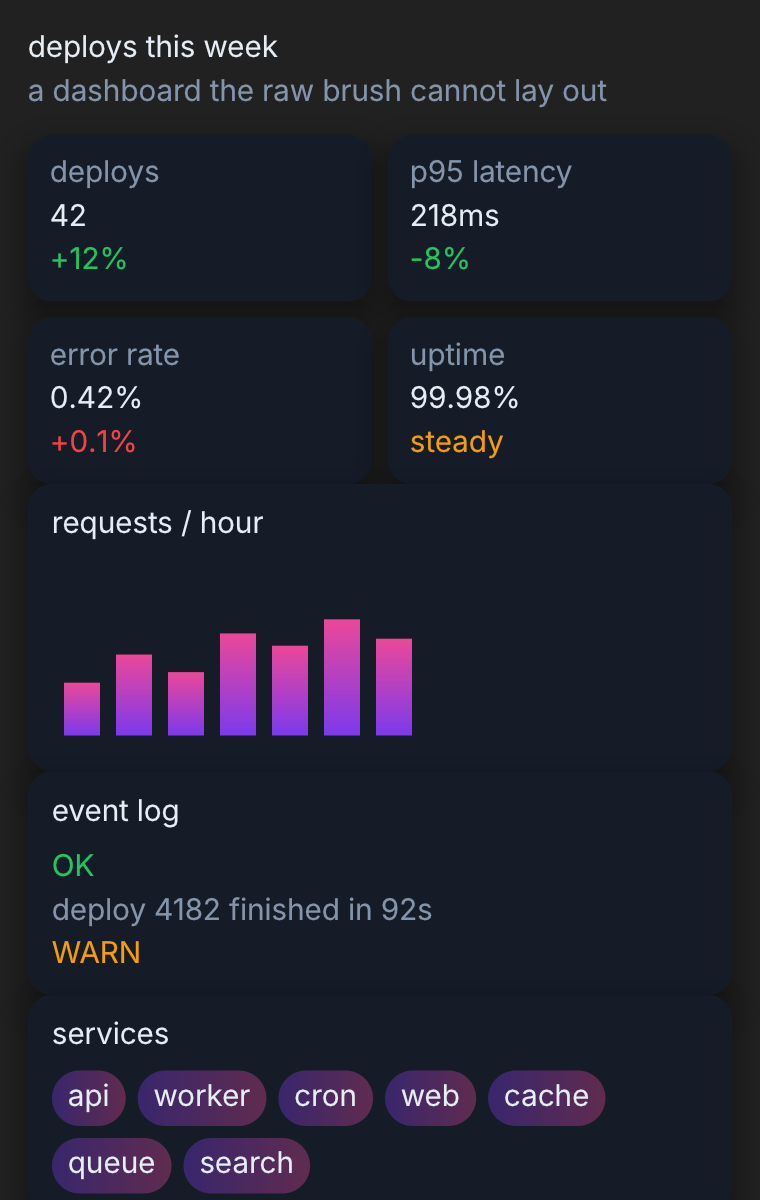
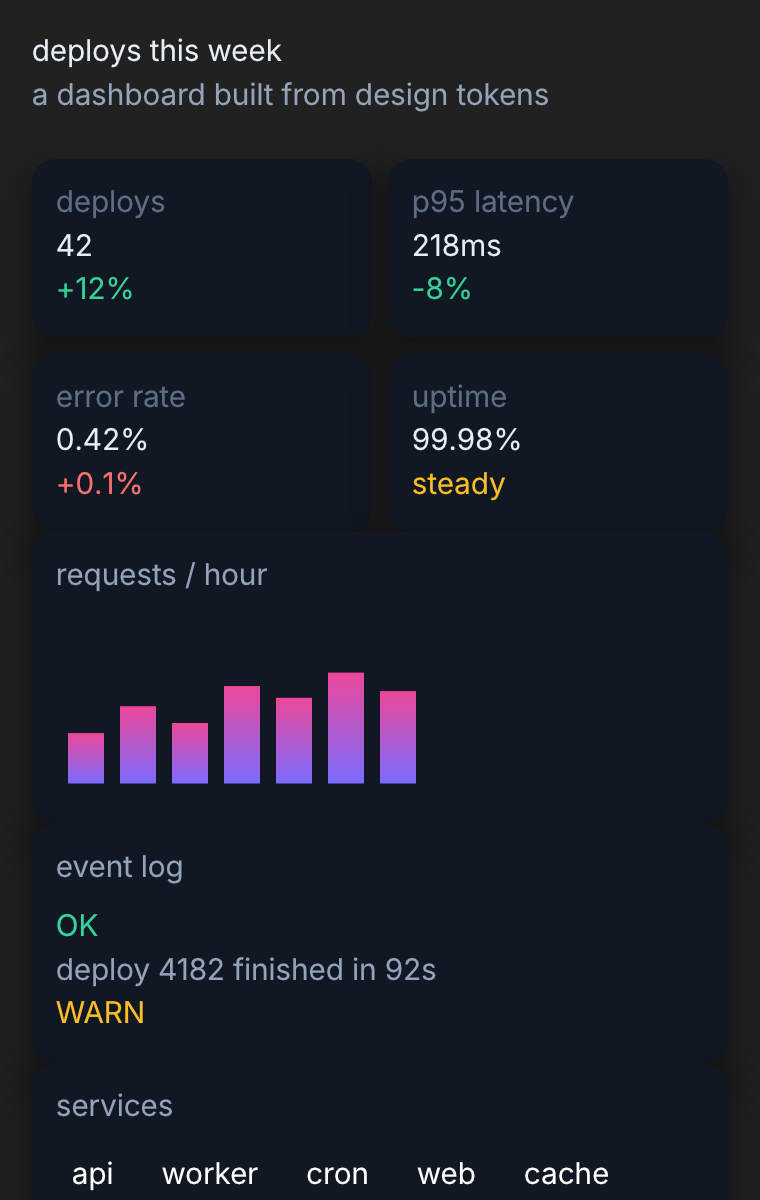
Add design-token theme and re-skin the dashboard
tools/tokens.py is a single source of truth: spacing (4px base), a 1.2 type
scale, radii, a cool-dark neutral ramp, semantic accents, elevation and a
brand gradient. Every showcase reads from it, so they look like one product
and a token change updates them together.

Re-skinned the dashboard against the tokens: oversized values, dim uppercase
labels, a clear reading order, shadowed cards on a surface ramp.

Two engine findings en route, both bit me before:
* the CSS parser does not strip /* */ comments — a comment inside a block
  corrupts the whole sheet, so tokens_css() strips them before emitting;
* a CSS constant that is never passed to d.css ships nothing (same as the
  gradient-gallery bug) — the layout rules must be wired in explicitly.

diff --git a/tools/showcase_dashboard.py b/tools/showcase_dashboard.py
@@ -1,22 +1,24 @@
 #!/usr/bin/env python3
 """Generate a developer-dashboard widget as libcui-widget RenderOps.
 
-Every element on this screen is something the raw CUI brush cannot do by
-itself — the point of the showcase is to make the "brain" visible:
+Re-skinned against tools/tokens.py — every spacing, font size, radius and
+colour is a design token read from one :root block, so the screen has a real
+hierarchy (big numbers, dim labels, a clear reading order) instead of ad-hoc
+hex values.
 
-  * a grid of stat cards (display:grid) — layout the brush has no idea about
-  * flex rows that wrap and space themselves (display:flex, justify-content)
-  * gradient text (background-clip) and gradient fills
-  * a soft box-shadow behind each card
-  * a bar chart drawn on a <canvas>, bars rotated/scaled via transforms
-  * a log panel that scrolls (overflow:scroll)
-  * CSS variables driving the whole colour theme from one :root block
+  * a 2x2 stat grid (display:grid) with oversized values and dim labels
+  * a bar chart drawn on a <canvas> via translate + scale + gradient fills
+  * a scrolling event log (overflow:scroll) with severity-coloured levels
+  * wrapping service tags (display:flex; flex-wrap:wrap)
+  * elevation (box-shadow) and a gradient brand accent throughout
 
 Usage: python3 tools/showcase_dashboard.py > showcase_dashboard.json
 Render: ./build/cuiw-render showcase_dashboard.json docs/showcase_dashboard.png 380 2 dark
 """
 import json
 import sys
+
+from tokens import tokens_css
 
 
 class Doc:
@@ -25,7 +27,7 @@ class Doc:
     def __init__(self):
         self.ops = []
         self.css = []
-        self._id = 10   # body is 2, the css op is 0; elements start at 11
+        self._id = 10
 
     def nid(self):
         self._id += 1
@@ -56,40 +58,43 @@ class Doc:
 
 
 CSS = """
-:root{--bg:#0b0f14;--card:#151c28;--ink:#e6edf5;--dim:#8494ab;
-  --accent:#7c3aed;--good:#22c55e;--warn:#f59e0b;--bad:#ef4444}
-body{margin:0;padding:14px;background:var(--bg);font-size:13px;color:var(--ink);
-  font-family:sans-serif}
-h1{font-size:19px;font-weight:700;margin:0 0 2px 0;color:#c4b5fd}
-.sub{font-size:11px;color:var(--dim);margin:0 0 10px 0}
-.stats{display:grid;grid-template-columns:1fr 1fr;gap:8px;margin-bottom:8px}
-.stat{background:var(--card);border-radius:12px;padding:9px 11px;
-  box-shadow:0 8px 20px rgba(0,0,0,0.45)}
-.slabel{font-size:10px;color:var(--dim);text-transform:uppercase;margin-bottom:3px}
-.sval{font-size:20px;font-weight:700}
-.sdelta{font-size:10px;margin-top:1px}
+body{margin:0;padding:var(--s4);background:var(--bg);color:var(--ink);
+  font-size:var(--t-md)}
+.h{font-size:var(--t-2xl);font-weight:700;margin:0;color:var(--ink)}
+.sub{font-size:var(--t-sm);color:var(--ink-dim);margin:var(--s1) 0 var(--s4) 0}
+
+.stats{display:grid;grid-template-columns:1fr 1fr;gap:var(--s2);
+  margin-bottom:var(--s3)}
+.stat{background:var(--surface);border-radius:var(--r-md);padding:var(--s3);
+  box-shadow:var(--shadow-md)}
+.slabel{font-size:var(--t-xs);color:var(--ink-faint);text-transform:uppercase;
+  margin-bottom:var(--s1)}
+.sval{font-size:var(--t-xl);font-weight:700;color:var(--ink)}
+.sdelta{font-size:var(--t-xs);margin-top:var(--s1)}
 .up{color:var(--good)}.down{color:var(--bad)}.flat{color:var(--warn)}
-.panel{background:var(--card);border-radius:12px;padding:10px 12px;margin-bottom:8px;
-  box-shadow:0 8px 20px rgba(0,0,0,0.45)}
-.ptitle{font-size:12px;font-weight:700;margin:0 0 6px 0}
-.chart{width:100%;height:96px;display:block}
-.log{height:64px;overflow:scroll;font-size:10px;color:var(--dim)}
-.log p{margin:0 0 4px 0}
+
+.panel{background:var(--surface);border-radius:var(--r-md);padding:var(--s3);
+  margin-bottom:var(--s2);box-shadow:var(--shadow-md)}
+.ptitle{font-size:var(--t-sm);font-weight:700;color:var(--ink-dim);
+  margin:0 0 var(--s2) 0}
+.chart{width:100%;height:92px;display:block}
+.log{height:66px;overflow:scroll;font-size:var(--t-xs);color:var(--ink-dim)}
+.log p{margin:0 0 var(--s1) 0}
 .lvl{font-weight:700}
-.tags{display:flex;flex-wrap:wrap;gap:6px}
-.tag{font-size:10px;padding:3px 8px;border-radius:999px;
-  background:linear-gradient(90deg,rgba(124,58,237,0.35),rgba(236,72,153,0.35));
-  color:var(--ink)}
+.up{color:var(--good)}.warn{color:var(--warn)}.bad{color:var(--bad)}
+
+.tags{display:flex;flex-wrap:wrap;gap:var(--s2)}
+.tag{font-size:var(--t-xs);padding:var(--s1) var(--s2);border-radius:var(--r-pill);
+  background:var(--grad-brand);color:#fff}
 """
 
 
 def build(d):
-    page = 2   # body
+    page = 2
 
-    d.div("h1", page, "deploys this week")
-    d.div("sub", page, "a dashboard the raw brush cannot lay out")
+    d.div("h", page, "deploys this week")
+    d.div("sub", page, "a dashboard built from design tokens")
 
-    # Stat grid: 4 cards in a 2x2 grid — pure layout the brush has no idea about.
     grid = d.div("stats", page)
     for label, val, delta, cls in (
         ("deploys", "42", "+12%", "up"),
@@ -102,42 +107,37 @@ def build(d):
         d.div("sval", card, val)
         d.div("sdelta " + cls, card, delta)
 
-    # Bar chart on a canvas: bars drawn with rotate/scale transforms.
     panel = d.div("panel", page)
     d.div("ptitle", panel, "requests / hour")
     bars = []
     heights = (30, 46, 36, 58, 51, 66, 55)
     x = 6.0
     for h in heights:
-        # translate to the bar's base, scale its height, fill upward.
         bars.append(["save"])
-        bars.append(["translate", x, 88])
+        bars.append(["translate", x, 84])
         bars.append(["scale", 1, h / 100.0])
-        bars.append(["fillStyle", "linear-gradient(to top,#7c3aed,#ec4899)"])
-        bars.append(["fillRect", 0, -88, 18, 88])
+        bars.append(["fillStyle", "linear-gradient(to top,#7c6cff,#ec4899)"])
+        bars.append(["fillRect", 0, -84, 18, 84])
         bars.append(["restore"])
         x += 26.0
     d.canvas("chart", panel, "chart1", bars)
 
-    # Scrolling log: overflow:scroll, content taller than the box.
     logp = d.div("panel", page)
     d.div("ptitle", logp, "event log")
     log = d.div("log", logp)
-    for lvl, msg in (
-        ("OK", "deploy 4182 finished in 92s"),
-        ("WARN", "cache miss rate 4.1%"),
-        ("OK", "health checks green"),
-        ("ERR", "pod api-7f restarted"),
-        ("OK", "autoscaler added 2 nodes"),
+    for lvl, cls, msg in (
+        ("OK", "up", "deploy 4182 finished in 92s"),
+        ("WARN", "warn", "cache miss rate 4.1%"),
+        ("OK", "up", "health checks green"),
+        ("ERR", "bad", "pod api-7f restarted"),
+        ("OK", "up", "autoscaler added 2 nodes"),
     ):
         row = d.div(None, log)
-        d.div("lvl " + ("down" if lvl == "ERR" else
-                        "flat" if lvl == "WARN" else "up"), row, lvl + " ")
+        d.div("lvl " + cls, row, lvl + " ")
         t = d.nid()
         d.ops.append({"op": "text", "id": t, "data": msg})
         d.ops.append({"op": "ins", "parent": row, "id": t, "before": None})
 
-    # Flex-wrap tags: they wrap on their own — no hand-counted positions.
     tagp = d.div("panel", page)
     d.div("ptitle", tagp, "services")
     tags = d.div("tags", tagp)
@@ -146,16 +146,18 @@ def build(d):
 
 
 def emit(d):
+    # The css op must come first: styles are applied when a node is created, so
+    # a css op after the body leaves everything unstyled.
     head = [
+        {"op": "css", "id": 0, "text": tokens_css() + "".join(d.css)},
         {"op": "el", "id": 2, "tag": "body", "attrs": [], "adopt": "body"},
-        {"op": "css", "id": 0, "text": "".join(d.css)},
     ]
     return head + d.ops
 
 
 if __name__ == "__main__":
     d = Doc()
-    d.rule(CSS)
+    d.rule(CSS)   # wire the layout rules in — without this only tokens ship
     build(d)
     json.dump(emit(d), sys.stdout, ensure_ascii=False)
     sys.stdout.write("\n")

diff --git a/tools/tokens.py b/tools/tokens.py
@@ -1,0 +1,63 @@
+"""Design tokens for libcui-widget showcases — the single source of truth.
+
+A "token" is a named value (a spacing, a font size, a colour) that every
+showcase reads from one place, so they all look like the same product. Change a
+token here and every screen updates together.
+
+These are plain CSS custom properties on :root (the engine resolves var() from
+:root and rule blocks). Kept deliberately small: a scale you can hold in your
+head beats an exhaustive one nobody follows.
+
+Spacing follows a 4px base (4/8/12/16/24/32) — everything is a multiple, so
+paddings and gaps never drift to odd values. Type is a 1.2 ratio scale.
+Colours are a dark-theme ramp built from one hue, plus semantic accents.
+"""
+
+TOKENS = """
+:root{
+  /* ---- spacing (4px base) ---- */
+  --s1:4px; --s2:8px; --s3:12px; --s4:16px; --s6:24px; --s8:32px;
+
+  /* ---- radius ---- */
+  --r-sm:8px; --r-md:12px; --r-lg:18px; --r-pill:999px;
+
+  /* ---- type scale (1.2 ratio, 13px body) ---- */
+  --t-xs:10px; --t-sm:11px; --t-md:13px; --t-lg:16px; --t-xl:20px; --t-2xl:26px;
+
+  /* ---- neutral ramp (cool dark) ---- */
+  --bg:#0a0e14;        /* page */
+  --surface:#111823;   /* card */
+  --surface-2:#18212f; /* raised card / inset */
+  --border:#232f42;    /* hairline */
+  --ink:#e8eef7;       /* primary text */
+  --ink-dim:#93a3ba;   /* secondary text */
+  --ink-faint:#5d6d85; /* tertiary / meta */
+
+  /* ---- brand + semantic accents ---- */
+  --brand:#7c6cff;     /* primary violet */
+  --brand-2:#ec4899;   /* secondary pink (gradient partner) */
+  --good:#34d399;
+  --warn:#fbbf24;
+  --bad:#f87171;
+
+  /* ---- elevation ---- */
+  --shadow-sm:0 2px 8px rgba(0,0,0,0.35);
+  --shadow-md:0 10px 24px rgba(0,0,0,0.45);
+  --shadow-lg:0 18px 40px rgba(0,0,0,0.55);
+
+  /* ---- gradient ---- */
+  --grad-brand:linear-gradient(135deg,var(--brand),var(--brand-2));
+}
+"""
+
+
+import re
+
+_TOKEN_COMMENT = re.compile(r"/\*.*?\*/", re.S)
+
+
+def tokens_css():
+    # The engine's CSS parser does not strip /* */ comments — it treats the text
+    # before a "{" as the selector, so a comment inside a block corrupts the whole
+    # sheet (no tokens resolve, nothing lays out). Strip them before emitting.
+    return _TOKEN_COMMENT.sub("", TOKENS)

diff --git a/README.md b/README.md
@@ -83,8 +83,9 @@ adds. Look at what is doing the work:
 - The **event log** scrolls (`overflow:scroll`) — content taller than its box.
 - The **service tags** wrap on their own (`display:flex;flex-wrap:wrap`) — add a
   tag and the row re-flows. Nothing was positioned by hand.
-- Every card drops a soft **shadow** and reads its colours from one `:root`
-  block of **CSS variables**.
+- Every card drops a soft **shadow** and reads its colours, spacing, type scale and
+  radii from one `:root` block of **design tokens** (`tools/tokens.py`) — change a
+  token and every showcase updates together.
 
 Build it with `python3 tools/showcase_dashboard.py > docs/showcase_dashboard.json &&
 ./build/cuiw-render docs/showcase_dashboard.json docs/showcase_dashboard.png 380 2 dark`.
